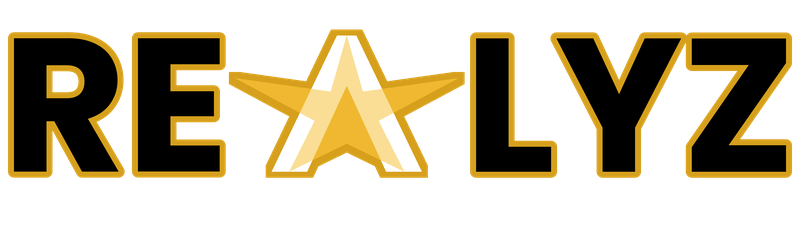
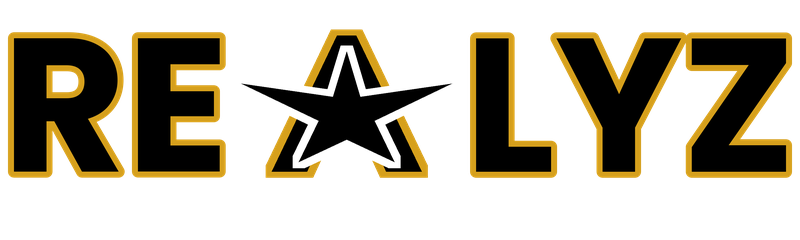
Marca Realyz: estrela preta com borda branca dentro do A de borda dourada
Claude-Session: https://claude.ai/code/session_01XJ8bKMNESezMEnN3MgmYe2

Changed region(s): [[0.2812, 0.1458, 0.5938, 0.7292]]

diff --git a/tools/wordmark.py b/tools/wordmark.py
@@ -25,22 +25,17 @@ def letterA(color, starc, bg_is_dark):
     d.polygon([(X(0.5),Y(0.36)),(X(0.75),Y(1.01)),(X(0.25),Y(1.01))],fill=0)
     E=Image.new('L',size,0)
     # estrela saindo de dentro do A: a ponta de cima é o topo do A e as pontas de baixo correm pelas pernas
-    P=[(0.5,-0.02),(0.60,0.40),(1.20,0.30),(0.70,0.62),(0.86,1.0),(0.5,0.79),(0.14,1.0),(0.30,0.62),(-0.20,0.30),(0.40,0.40)]
+    P=[(0.5,0.10),(0.585,0.44),(1.16,0.34),(0.675,0.62),(0.80,0.93),(0.5,0.76),(0.20,0.93),(0.325,0.62),(-0.16,0.34),(0.415,0.44)]
     ImageDraw.Draw(E).polygon([(X(u),Y(v)) for u,v in P],fill=255)
-    from PIL import ImageChops
-    both=ImageChops.multiply(A,E)
-    onlyA=ImageChops.subtract(A,both); onlyE=ImageChops.subtract(E,both)
-    im=Image.new('RGBA',size,(0,0,0,0))
-    cA,cE,cM = starc
-    im.paste(Image.new('RGBA',size,cA),(0,0),onlyA)
-    im.paste(Image.new('RGBA',size,cE),(0,0),onlyE)
-    im.paste(Image.new('RGBA',size,cM),(0,0),both)
-    from PIL import ImageFilter
-    union=ImageChops.lighter(A,E)
-    ring=ImageChops.subtract(union.filter(ImageFilter.MaxFilter(2*SW+1)),union)
+    from PIL import ImageChops, ImageFilter
+    grow=lambda m: m.filter(ImageFilter.MaxFilter(2*SW+1))
     out=Image.new('RGBA',size,(0,0,0,0))
-    out.paste(Image.new('RGBA',size,GOLD),(0,0),ring)
-    out.alpha_composite(im)
+    # A: preto por dentro, borda dourada (como as outras letras)
+    out.paste(Image.new('RGBA',size,GOLD),(0,0),grow(A))
+    out.paste(Image.new('RGBA',size,(0,0,0,255)),(0,0),A)
+    # estrela por cima, saindo de dentro do A: preta por dentro, borda branca
+    out.paste(Image.new('RGBA',size,(255,255,255,255)),(0,0),grow(E))
+    out.paste(Image.new('RGBA',size,(0,0,0,255)),(0,0),E)
     return out
 def make(color, starc, path):
     d0=ImageDraw.Draw(Image.new('RGBA',(5,5)))
